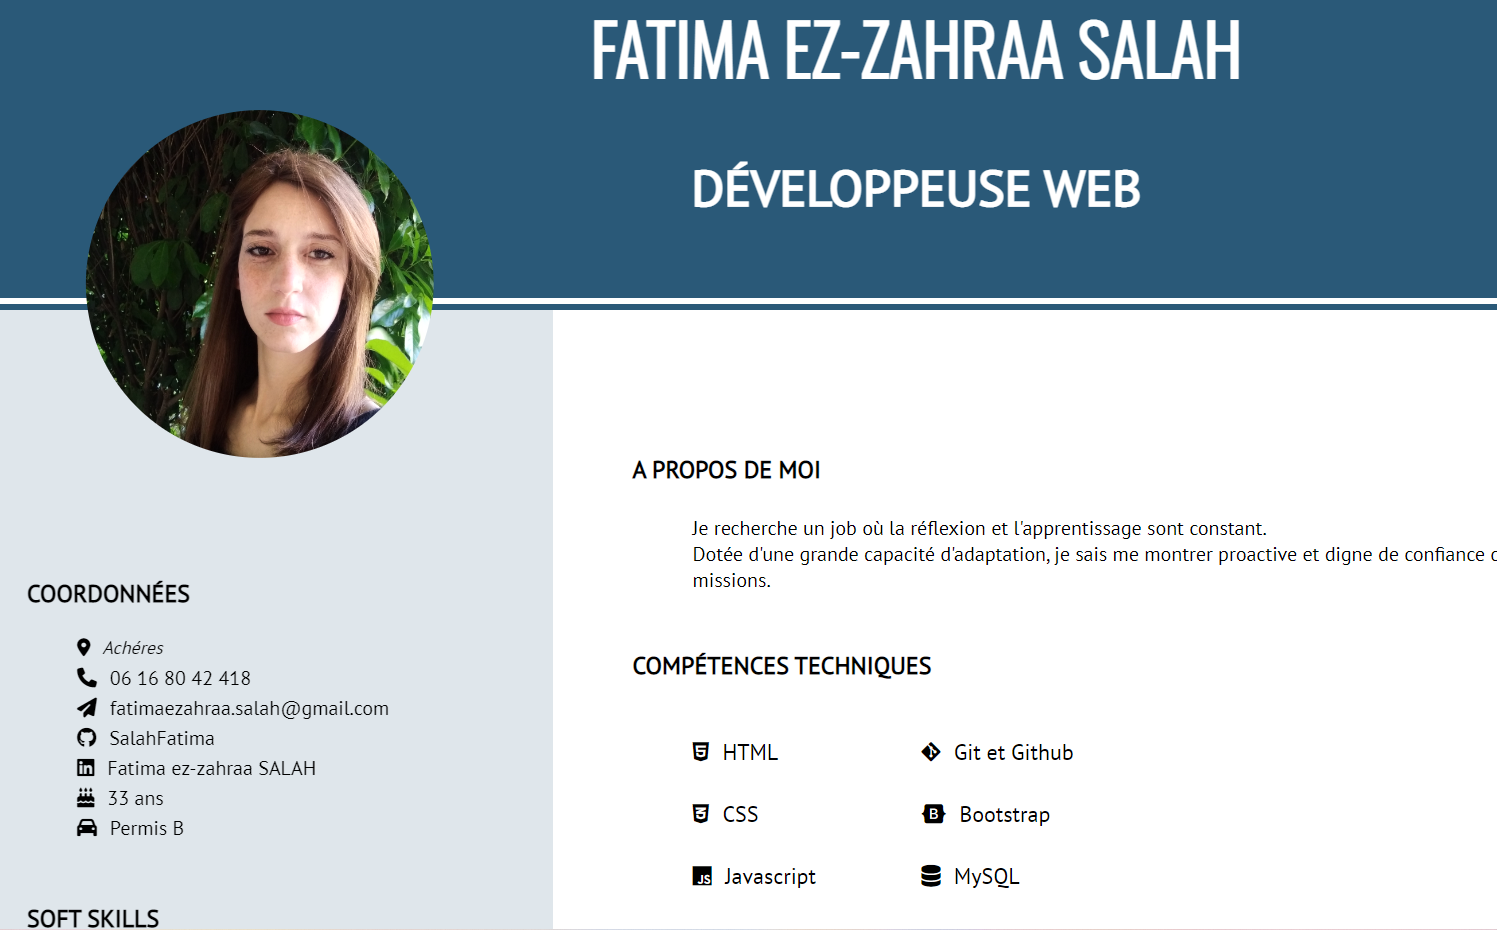
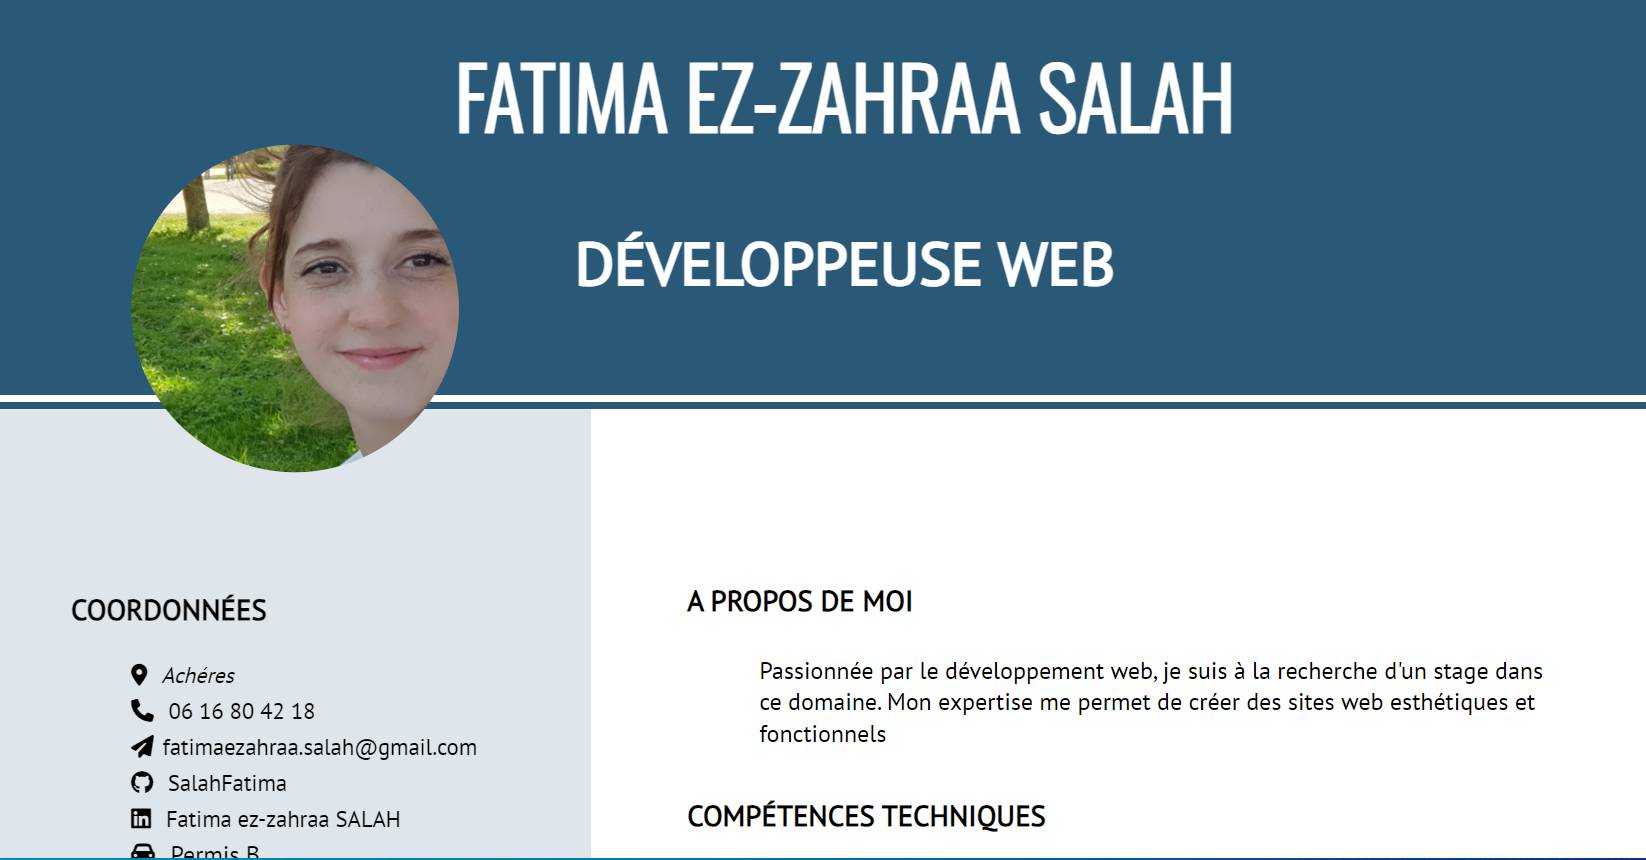
ajouterCv

diff --git a/index.html b/index.html
@@ -244,7 +244,9 @@
         <div class="container">
             <div class="row">
                 <div class="col-lg-4 col-md-4 col-xd-12">
-                    <a class="portfolio-link" href="https://fatisajid.github.io/portfolio/">
+                    <!-- <a class="portfolio-link" href="https://fatisajid.github.io/portfolio/"> -->
+                        <a class="portfolio-link" href="https://fatisajid.github.io/curriculumVitae/">
+
                         <div class="portfolio-hover">
                             <div class="portfolio-hover-content"></div>
                         </div><img class="img-fluid" src="photo/cv html.png" width="400" height="243">

diff --git a/css/style.css b/css/style.css
@@ -119,6 +119,10 @@ b{
     line-height: 1.5rem; /*espace entre les ligne*/
     font-size: 13px;
 }
+
+#experience p:hover{
+    border: 3px solid #ff0059;
+}
 #experience h1{
     color: #ff0059;
     font-style: italic;
